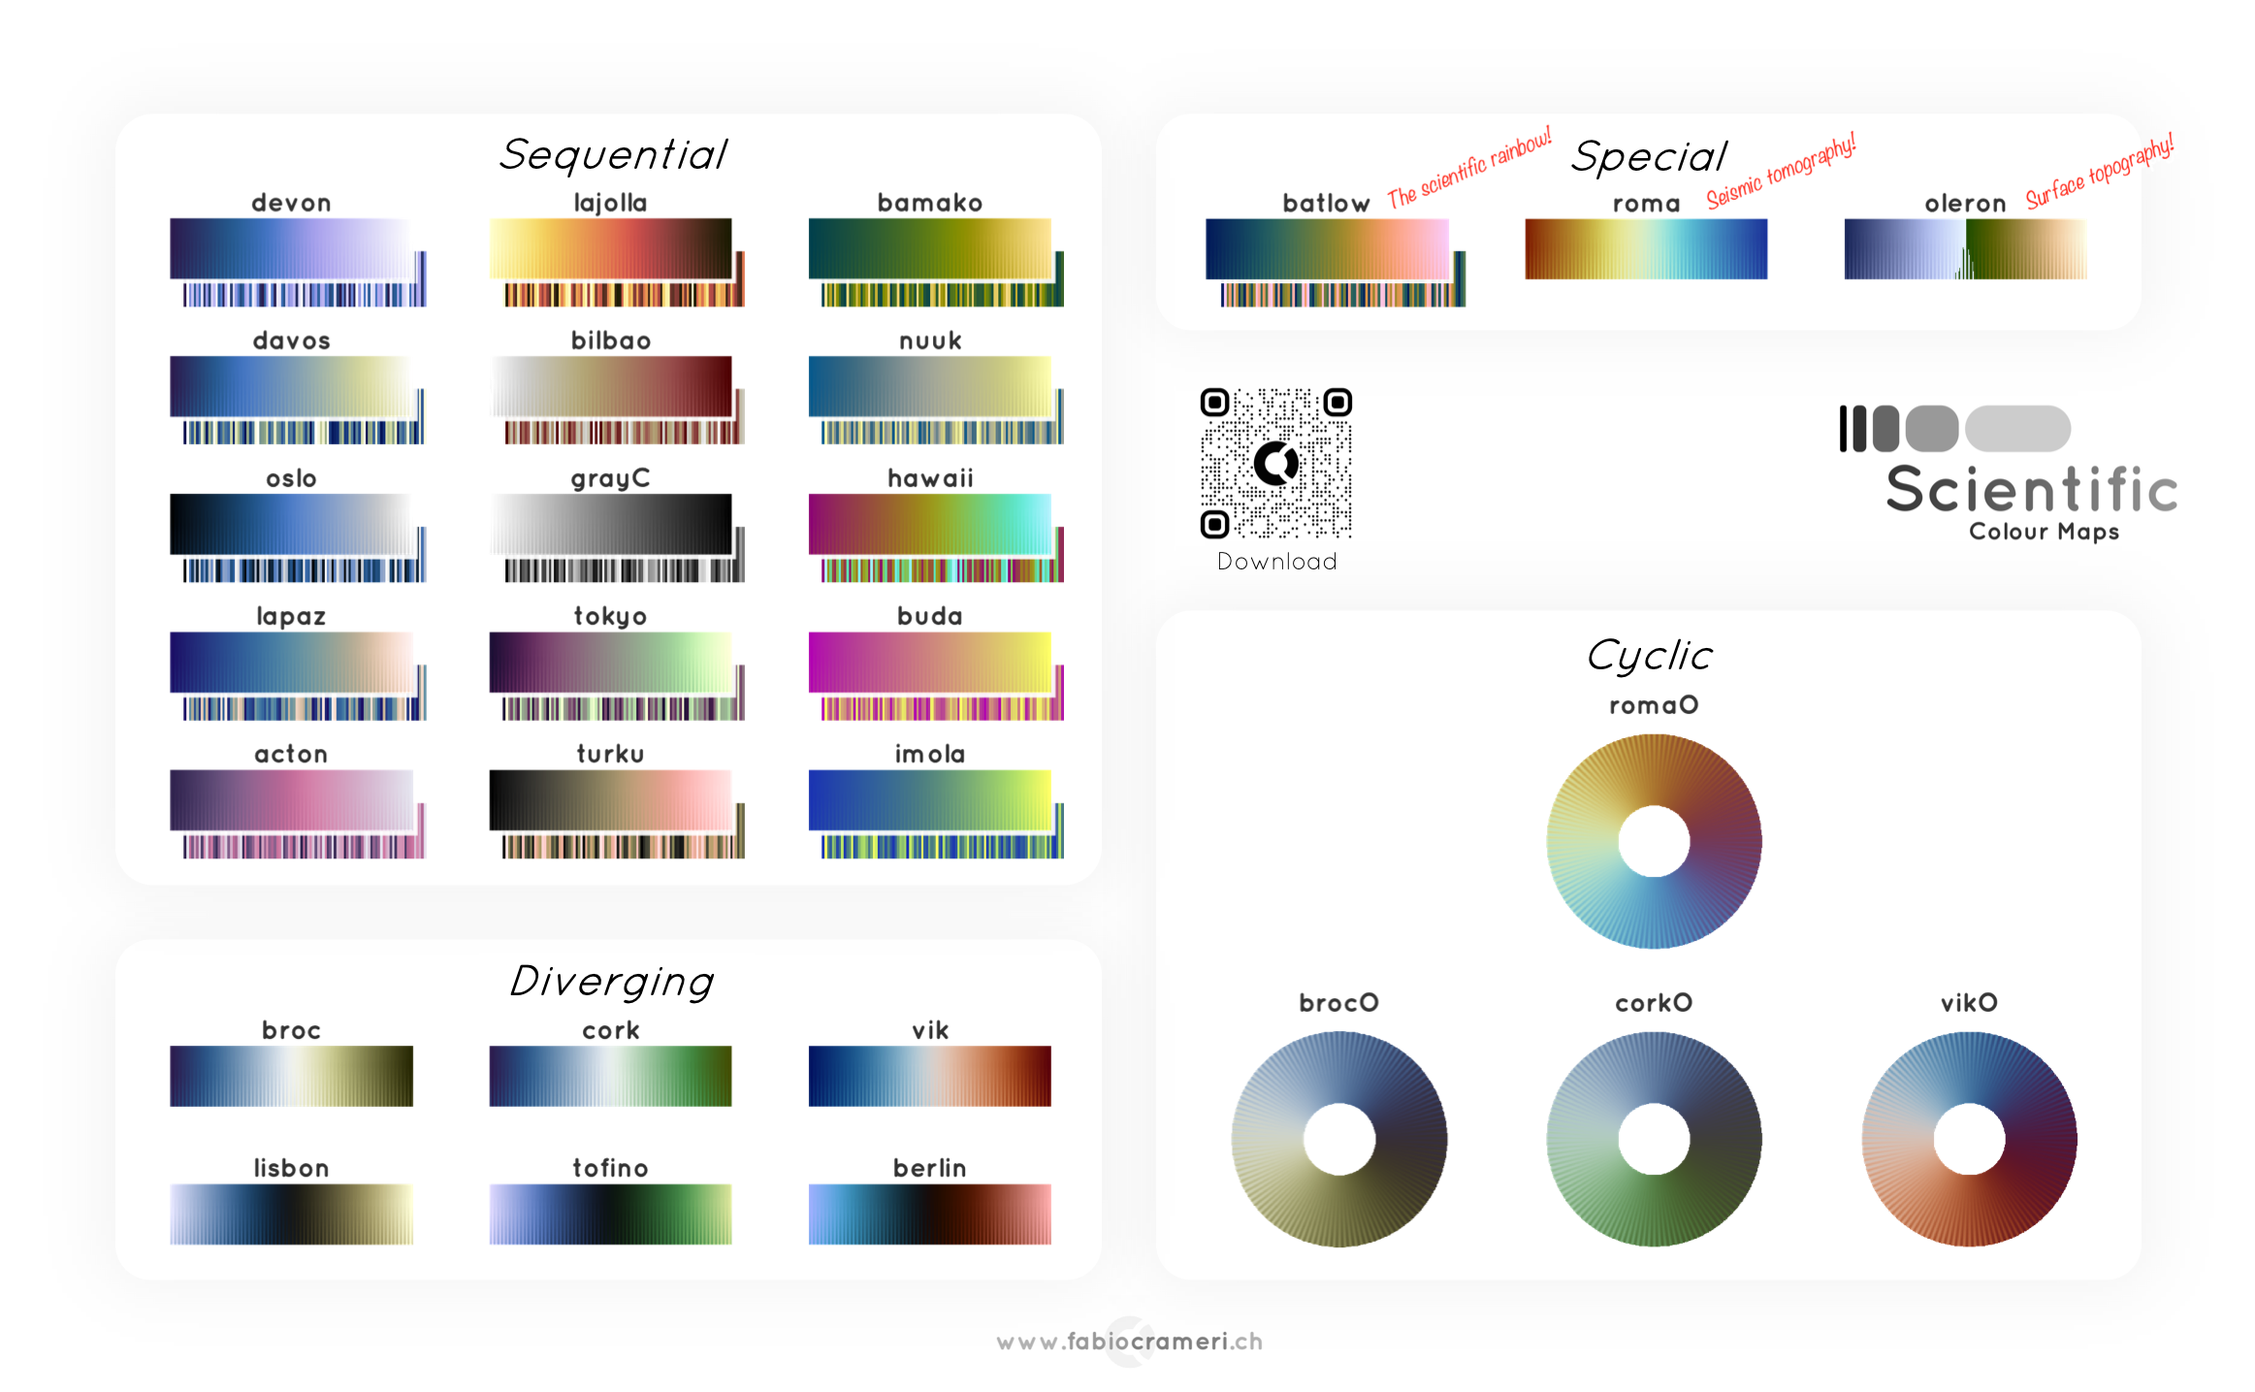
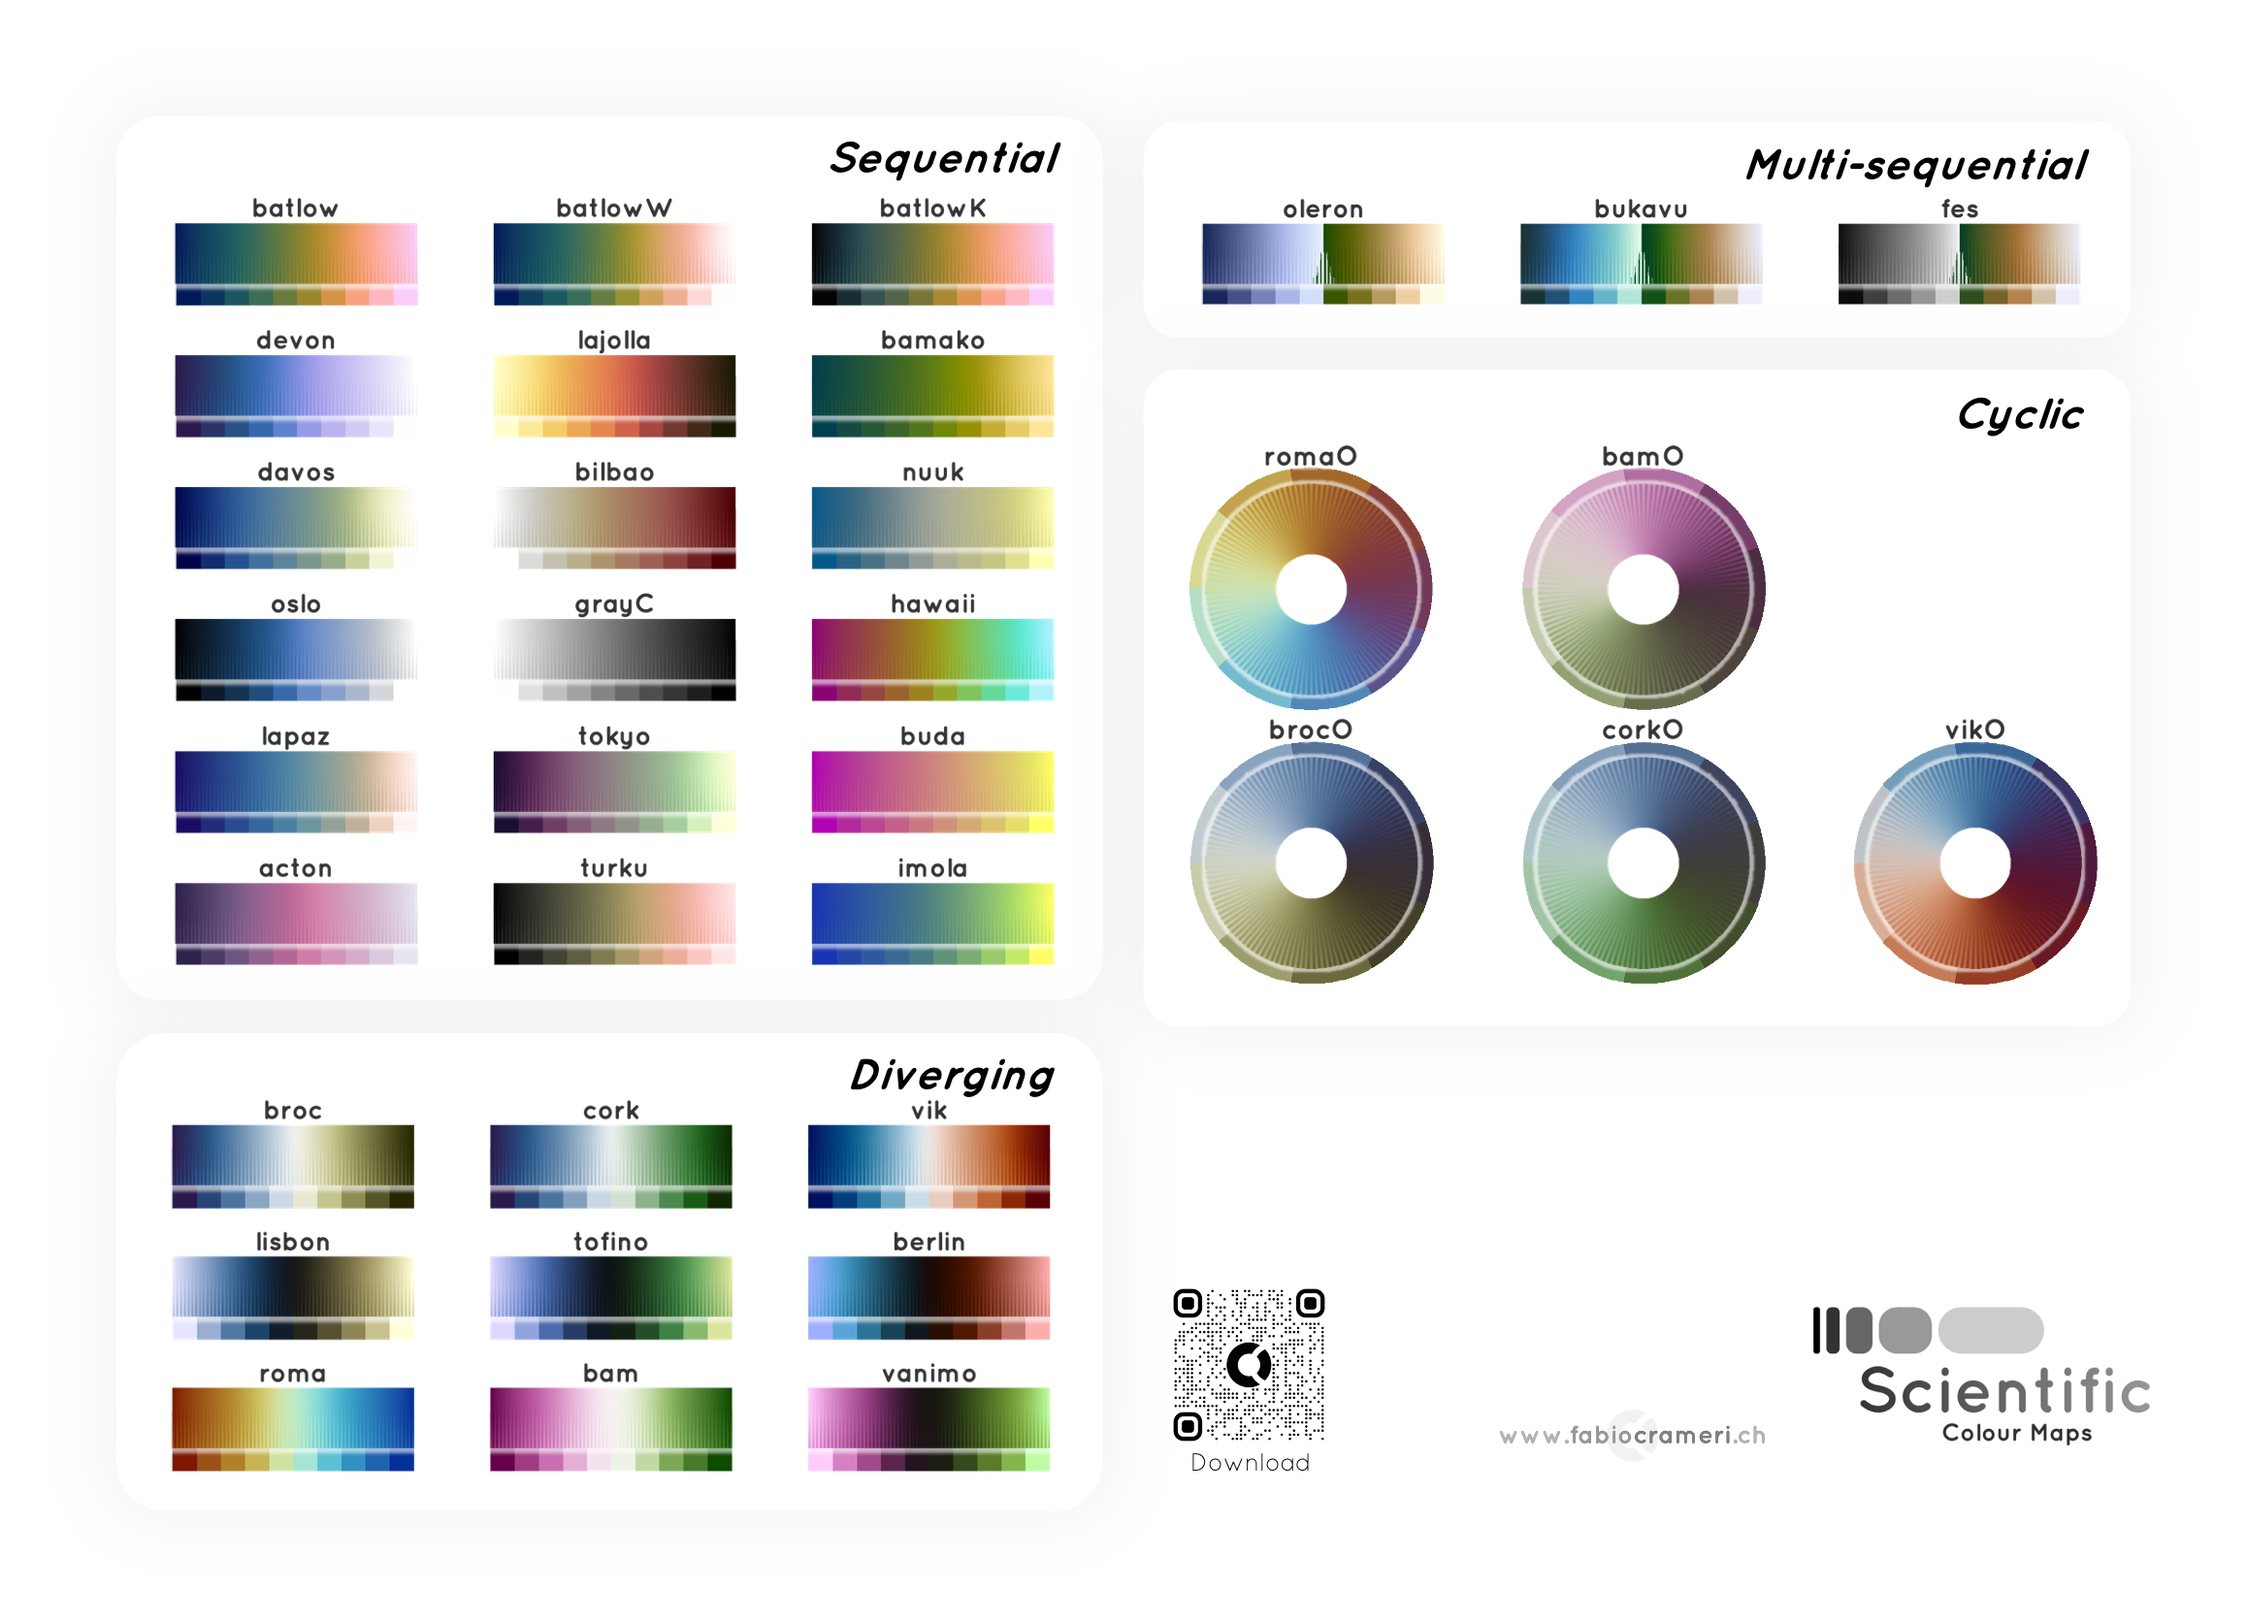
Update ttscm to version 7.0

diff --git a/colormaps/ttscm.m b/colormaps/ttscm.m
@@ -68,7 +68,7 @@ function cmap = ttscm(name,n,percrange)
 % References: 
 %
 %      Crameri, F., (2018). Scientific colour-maps. Zenodo. 
-%      http://doi.org/10.5281/zenodo.1243862
+%      http://doi.org/10.5281/zenodo.4491293
 %
 %      Crameri, F. (2018), Geodynamic diagnostics, scientific visualisation 
 %      and StagLab 3.0, Geosci. Model Dev., 11, 2541-2562. 
@@ -78,14 +78,15 @@ function cmap = ttscm(name,n,percrange)
 % See also: GRIDobj/IMAGESCHS, ttcmap
 %
 % Author: Wolfgang Schwanghart (w.schwanghart[at]geo.uni-potsdam.de)
-% Date: 22. June, 2020
+% Date: 10. June, 2021
 
 allowedcmaps = {'acton' 'bamako', 'batlow', 'hawaii', 'imola' 'nuuk' ...
                 'buda' ...
                 'devon','davos','oslo','bilbao','lajolla',...
                 'grayC','broc','cork','vik','lisbon','tofino',...
 				'berlin','turku','tokyo','lapaz','roma','oleron', ...
-                'brocO','corkO','vikO'};
+                'brocO','corkO','vikO', 'bam', 'bamO', 'batlowK', 'batlowW',...
+				'bukavu','fes'};
 
 				
 % get location of this function
